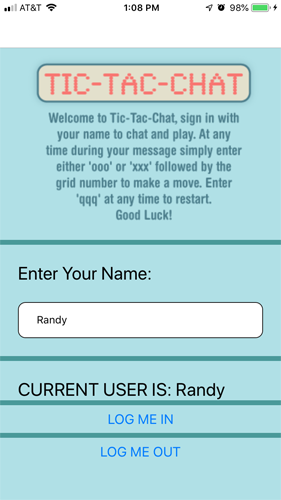
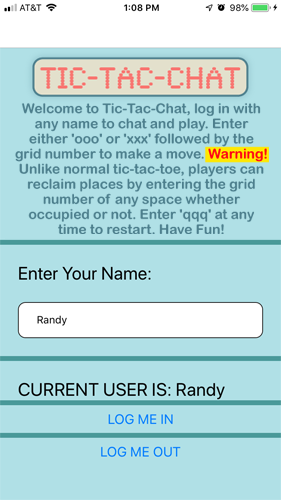
image change

Changed region(s): [[0.0569, 0.09, 0.968, 0.48]]

diff --git a/README.md b/README.md
@@ -1,12 +1,12 @@
 # REACT NATIVE Project
 
-My loose ideas going into this week were to work with things I hadn't worked with during our React section. The areas I was thinking about delving into were game making, graphics, animation, sound manipulation, neural networks, and data exchange via users.
+My loose ideas going into this week were to work with things I hadn't worked with as much. The areas I was thinking about delving into were games, graphics, animation, sound manipulation, neural networks, and data exchange via users.
 
-Early on I found a chat tutorial that involved using react native and the giftedchat library utilizing the firebase real-time database system that Ray had mentioned.
-I settled on an idea of some sort of texting game/analyzer combo app. 
+Early on I found a chat tutorial that involved using the react native gifted chat library utilizing the firebase real-time database system. 
 
-I was able to set anonymous user login and texting with data storage and a 5x5 tic-tac-toe game that can be played via texted instructions.
-The tic-tac-toe game is really just a placeholder for a better type game but I wanted to get the basic implementation of multiple users interacting via text in an ongoing game that is updated and stored in local state. Very cool to see it on two devices with multiple anonymous users interacting!
+I eventually settled on an idea of some sort of texting game/analyzer combo app. 
+
+I was able to set anonymous user login and texting with data storage and a 5x5 tic-tac-toe game that can be played via texted instructions. The tic-tac-toe game is really just a placeholder for a better type game but I wanted to get the basic implementation of multiple users interacting via text in an on-going game that is updated and stored in local state. Very cool to see it on two devices with multiple anonymous users interacting!
 
 ## User Log-in:                
 ![](assets/login.png) 
